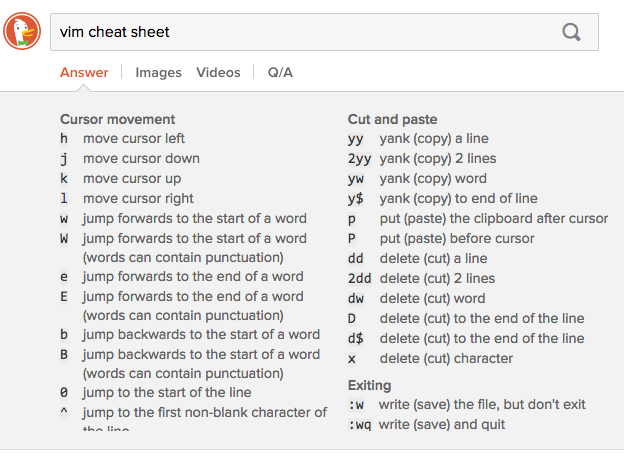
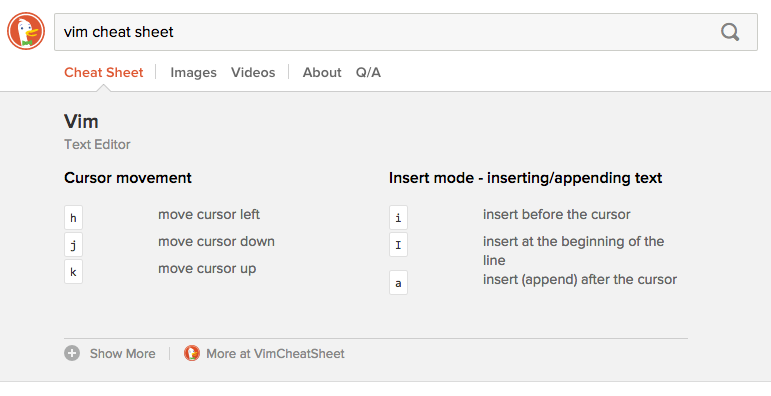
Cheat sheet clarity fixes

Changed region(s): [[0.0609, 0.2424, 0.9744, 0.9394], [0.0, 0.0303, 0.5176, 0.2121], [0.883, 0.0303, 1.0, 0.1212]]

diff --git a/duckduckhack/goodie/goodie_cheat_sheets.md b/duckduckhack/goodie/goodie_cheat_sheets.md
@@ -2,7 +2,7 @@
 
 A popular (and perfect) use of Goodies is to create instant cheat sheets, available right from the DuckDuckGo search bar. To make adding a cheat sheet as quick as possible, we've brought all cheat sheets together under one Instant Answer, called the [Cheat Sheets Goodie](https://duck.co/ia/view/cheat_sheets).
 
-![vim cheat sheet](https://images.duckduckgo.com/iu/?u=https%3A%2F%2Fraw.githubusercontent.com%2Fduckduckgo%2Fduckduckgo-documentation%2Fmaster%2Fduckduckhack%2Fassets%2Fvim_cheat_sheet.png&f=1)
+![tmux cheat sheet](https://images.duckduckgo.com/iu/?u=https%3A%2F%2Fraw.githubusercontent.com%2Fduckduckgo%2Fduckduckgo-documentation%2Fmaster%2Fduckduckhack%2Fassets%2Ftmux_cheat_sheet.png&f=1)
 
 ## How to Add Your Cheat Sheet
 
@@ -24,24 +24,29 @@ With this method, there is no need to create a new Instant Answer. There is also
 
 Below is a summary of the [`vim.json`](https://github.com/duckduckgo/zeroclickinfo-goodies/blob/master/share/goodie/cheat_sheets/vim.json) file, which displays a cheat sheet when searching for ["vim cheat sheet"](https://duckduckgo.com/?q=vim+cheat+sheet&ia=answer).
 
+![vim cheat sheet](https://images.duckduckgo.com/iu/?u=https%3A%2F%2Fraw.githubusercontent.com%2Fduckduckgo%2Fduckduckgo-documentation%2Fmaster%2Fduckduckhack%2Fassets%2Fvim_cheat_sheet.png&f=1)
+
 Fields are annotated in the sample. Syntax for the `key` property is explained below.
 
 ```javascript
 {
-	// Required
+    // Required; use underscore formatting
+    "id": "vim_cheat_sheet", 
+
+    // Required; displayed as title of AnswerBar
     "name": "Vim",
 
-	// Optional, but strongly encouraged
+    // Optional; displayed as subtitle of AnswerBar
     "description": "Text Editor", 
-	
-	// Required if cheat sheet has a source,
-	// also possible to point users to further useful information
+    
+    // Required if cheat sheet has a source; useful to link users to further information.
+    // Displayed at bottom of AnswerBar, favicon shown automatically
     "metadata": { 
         "sourceName": "VimCheatSheet",
-        "sourceUrl": "https://duckduckgo.com"
+        "sourceUrl": "https://..." // Should be SSL if possible
     },
 
-	// Required; controls which sections appear and in what order
+    // Required; controls which sections appear and in what order
     "section_order": [  
         "Cursor movement",
         "Insert mode - inserting/appending text",
@@ -49,14 +54,13 @@ Fields are annotated in the sample. Syntax for the `key` property is explained b
         "Tabs"
     ],
 
-	// Required; section names must match those in section_order
-	// in order to appear
-    "sections": {
+    // Required; section names must match those in section_order in order to appear
+    "sections": { // Syntax explained below
         "Tabs": [
             {
-                "key": "#gt", // Syntax explained below
+                "key": "#gt", 
                 "val": "move to tab number #"
-            }, 
+            },
             {
                 "key": "[Ctrl] + [wt]",
                 "val": "move the current split window into its own tab"
@@ -83,15 +87,13 @@ Fields are annotated in the sample. Syntax for the `key` property is explained b
 ### Syntax for `key` Property
 
 Cheat sheet actions often have several key combinations, which you can indicate in the syntax of each `key` property.
-Brackets, `[ ]`, or braces, `{ }`, are used to wrap key combinations in code blocks. If you include no brackets or braces, the entire string will be shown in a code block.
+Brackets, `[ ]`, or braces, `{ }`, are used to wrap key combinations in code blocks. For convenience, if you include no brackets or braces, the entire string will be shown in a code block.
 
 To express literal brackets, braces, and backslash, simply escape with a backslash: e.g. `[Ctrl + \\]`, or `{Ctrl + \[}`.
 
-For convenience, if your string contains no brackets or braces, the entire string will be shown as a code block.
-
 ### Formatting Key Presses
 
-Cheat sheet actions often have several key combinations, which you can express in any way you choose. The following are only suggestions; choose the most appropriate format for your cheat sheet.
+Cheat sheet actions often have several key combinations, which you can express in any way you choose. The following are only suggestions; choose the most appropriate format for your subject.
 
 #### Single Keys or Commands
 
